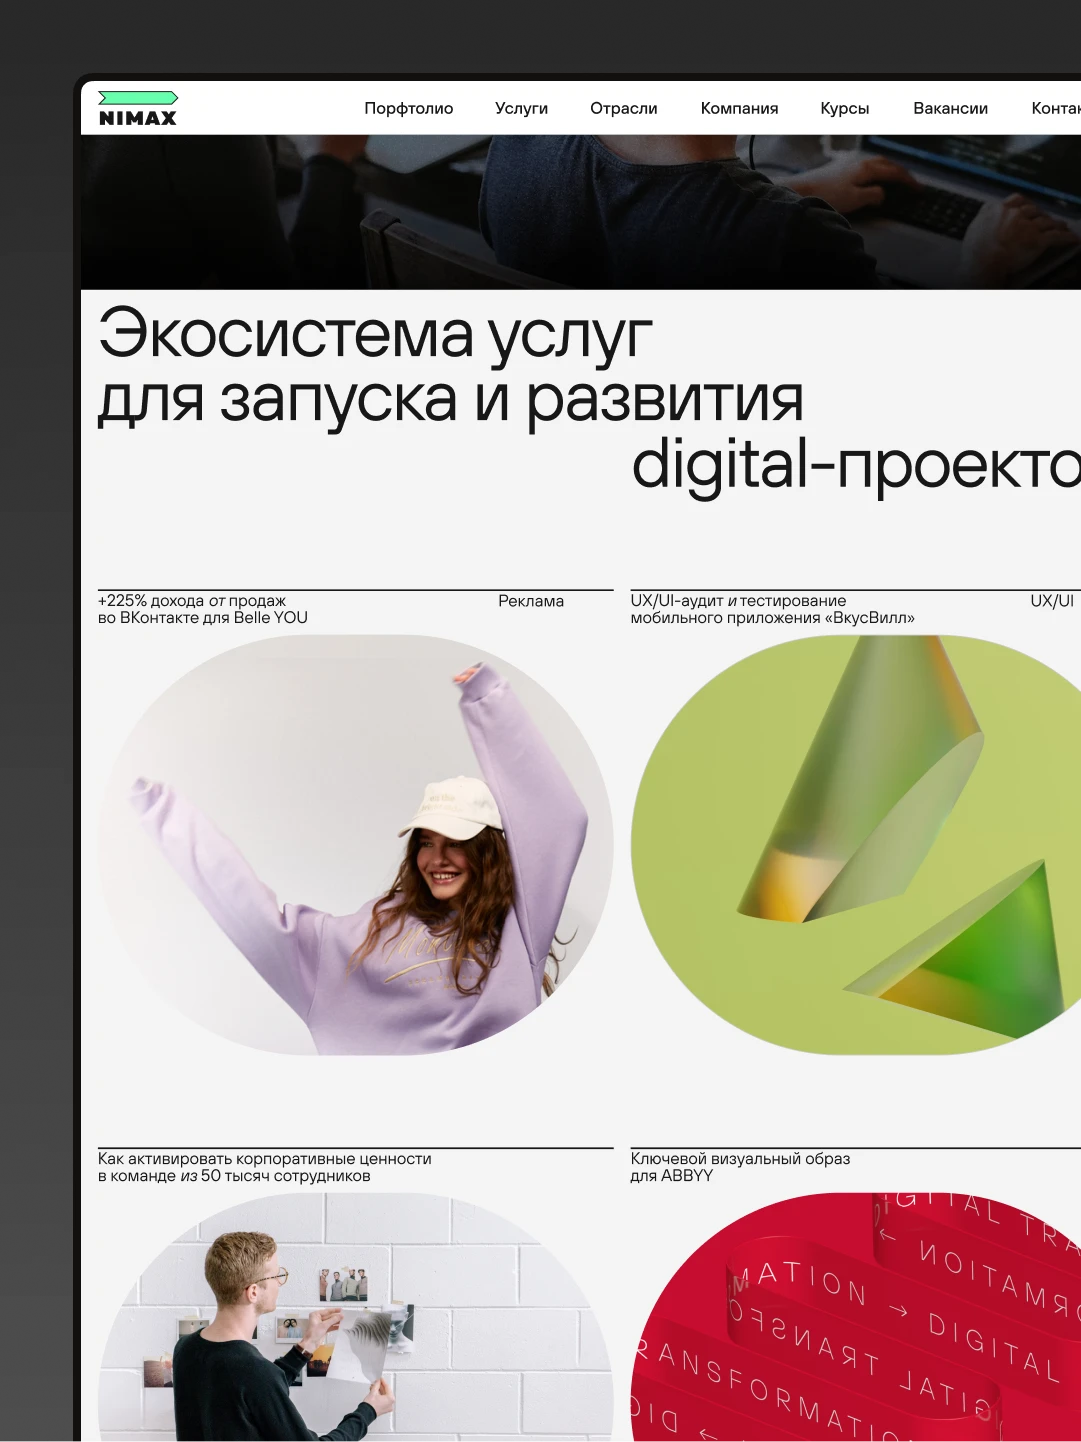
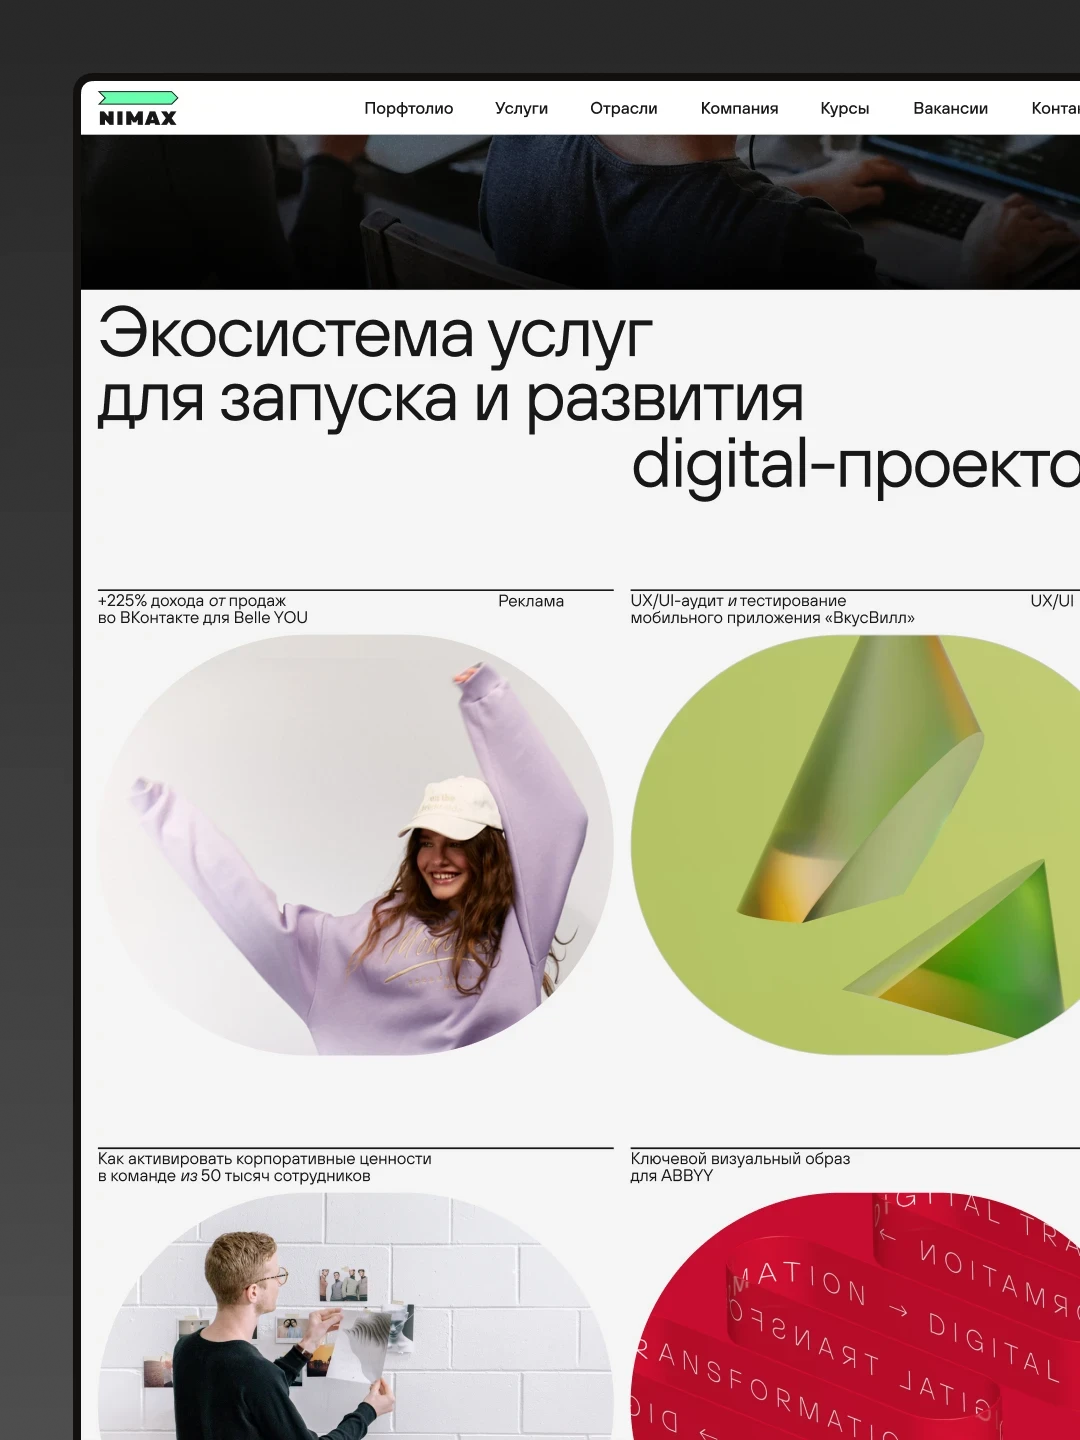
Clean up Nimax page: remove parallax/lens, fix image size, tidy code
Removes the experimental parallax and cursor-lens-distortion effects
entirely. Crops nimax-12.webp from 1081x1442 to the standard 1080x1440
and updates its HTML dimensions. Fixes two stale comments left over
from earlier iterations and merges a duplicate .pv-cover rule.

diff --git a/brands/nimax/index.html b/brands/nimax/index.html
@@ -55,8 +55,6 @@
         overflow: hidden;
         background: #d3d3d3;
         margin: 0;
-      }
-      .pv-cover {
         position: relative;
       }
       .pv-cover img,
@@ -248,8 +246,8 @@
         margin: 0;
       }
 
-      /* Info-note: tap/click button + sliding caption bar for the two
-         banner clips the Nimax team made themselves. Replaces the old
+      /* Info-note: tap/click button + sliding caption bar for photos/clips
+         that need a short attribution or note. Replaces the old
          cursor-follow hover tooltip—that was invisible on touch devices,
          so mobile visitors never saw the caption at all. Built by
          info-note.js from the host's data-note attribute; only the look
@@ -390,34 +388,6 @@
          has no effect on the mobile flat list (no side-by-side pairs
          there). */
 
-      /* ── TEMPORARY: cursor lens-distortion test on the logo ──
-         .brand already exists in styles.css (width/margin/etc.)—this
-         just adds position:relative on top, needed to place the warped
-         duplicate. The duplicate sits pixel-for-pixel on top of the
-         real logo, run through the SVG filter defined near the end of
-         the page, and is only visible through a small circular mask
-         that tracks the cursor (see the script there for the lerp that
-         makes it trail smoothly instead of snapping). */
-      .brand {
-        position: relative;
-      }
-      /* styles.css fades the whole logo to 0.7 opacity on hover (site-
-         wide link convention)—here that fights the lens effect, which
-         wants the logo staying fully solid while you look at the
-         distortion, so cancel it just on this page. */
-      .brand:hover {
-        opacity: 1;
-      }
-      .brand-mark--lens {
-        position: absolute;
-        top: 0;
-        left: 0;
-        filter: url(#nimax-lens);
-        -webkit-mask-image: radial-gradient(circle 26px at var(--lens-x, -999px) var(--lens-y, -999px), #000 55%, transparent 100%);
-        mask-image: radial-gradient(circle 26px at var(--lens-x, -999px) var(--lens-y, -999px), #000 55%, transparent 100%);
-        pointer-events: none;
-      }
-
       :root {
         --reveal-distance: 70px;
         --reveal-duration: 1400ms;
@@ -473,31 +443,11 @@
   </head>
   <body class="project-page">
 
-    <!-- TEMPORARY: SVG filter for the logo lens-distortion test (see
-         .brand-mark--lens above and the script near </body>). Turbulence
-         + displacement gives a "warped glass" ripple rather than a true
-         optical magnifier—simpler than a real lens shader, and plenty
-         convincing for a small hover bubble. Scale is deliberately mild
-         since the logo itself is only 16px tall. -->
-    <svg width="0" height="0" style="position: absolute" aria-hidden="true">
-      <filter id="nimax-lens">
-        <feTurbulence type="fractalNoise" baseFrequency="0.02 0.05" numOctaves="2" seed="7" result="noise" />
-        <feDisplacementMap in="SourceGraphic" in2="noise" scale="16" xChannelSelector="R" yChannelSelector="G" />
-      </filter>
-    </svg>
-
     <!-- ── DESKTOP LAYOUT ─────────────────────────── -->
     <main class="site-shell page-grid">
       <aside class="site-nav" aria-label="Main navigation">
-        <!-- TEMPORARY: cursor lens-distortion test (see the SVG filter,
-             CSS, and script near the end of the page). The second img is
-             a warped duplicate, visible only through a small circular
-             mask that follows the cursor—so hovering the wordmark shows
-             a little bubble of glass-like distortion sliding across it,
-             while the rest stays crisp. -->
         <a class="brand" href="../../index.html" aria-label="Andrey Ubeyvolk home">
           <img width="129" height="16" class="brand-mark" src="../../assets/logo.svg" alt="Andrey Ubeyvolk" />
-          <img width="129" height="16" class="brand-mark brand-mark--lens" src="../../assets/logo.svg" alt="" aria-hidden="true" />
         </a>
         <nav class="nav-list">
           <a href="../../inhouse/index.html">Inhouse</a>
@@ -576,10 +526,10 @@
             <div class="pv-pair">
               <div class="pv-pair__photo info-note" data-note="Made by Nimax, following the new style guide">
                 <!-- nimax-11: plays once scrolled into view, muted (silent clip), no player chrome -->
-                <video class="vp-bare" playsinline muted loop preload="metadata" src="../../assets/brands/nimax/nimax-11.mp4"></video>
+                <video class="vp-bare" playsinline muted loop preload="none" src="../../assets/brands/nimax/nimax-11.mp4"></video>
               </div>
               <figure class="pv-pair__photo">
-                <img width="1081" height="1442" loading="lazy" src="../../assets/brands/nimax/nimax-12.webp" alt="Nimax visual 12" />
+                <img width="1080" height="1440" loading="lazy" src="../../assets/brands/nimax/nimax-12.webp" alt="Nimax visual 12" />
               </figure>
             </div>
 
@@ -606,7 +556,7 @@
               </figure>
               <div class="pv-pair__photo info-note" data-note="Made by Nimax, following the new style guide">
                 <!-- nimax-18: plays once scrolled into view, muted (silent clip), no player chrome -->
-                <video class="vp-bare" playsinline muted loop preload="metadata" src="../../assets/brands/nimax/nimax-18.mp4"></video>
+                <video class="vp-bare" playsinline muted loop preload="none" src="../../assets/brands/nimax/nimax-18.mp4"></video>
               </div>
             </div>
 
@@ -625,7 +575,7 @@
 
             <!-- nimax-22: plays once scrolled into view, muted (silent clip), no player chrome -->
             <div class="info-note" data-note="Custom merch concept for the team">
-              <video class="vp-bare" width="1808" height="1080" playsinline muted loop preload="metadata" src="../../assets/brands/nimax/nimax-22.mp4"></video>
+              <video class="vp-bare" width="1808" height="1080" playsinline muted loop preload="none" src="../../assets/brands/nimax/nimax-22.mp4"></video>
             </div>
 
             <div class="pv-pair">
@@ -733,10 +683,10 @@
       </figure>
       <!-- nimax-11: plays once scrolled into view, muted (silent clip), no player chrome -->
       <div class="info-note" data-note="Made by Nimax, following the new style guide">
-        <video class="vp-bare" playsinline muted loop preload="metadata" src="../../assets/brands/nimax/nimax-11.mp4"></video>
+        <video class="vp-bare" playsinline muted loop preload="none" src="../../assets/brands/nimax/nimax-11.mp4"></video>
       </div>
       <figure class="mobile-project__photo" style="background:#d3d3d3;">
-        <img width="1081" height="1442" loading="lazy" src="../../assets/brands/nimax/nimax-12.webp" alt="Nimax visual 12" />
+        <img width="1080" height="1440" loading="lazy" src="../../assets/brands/nimax/nimax-12.webp" alt="Nimax visual 12" />
       </figure>
       <figure class="mobile-project__photo" style="background:#d3d3d3;">
         <img width="2160" height="1440" loading="lazy" src="../../assets/brands/nimax/nimax-13.webp" alt="Nimax visual 13" />
@@ -755,7 +705,7 @@
       </figure>
       <!-- nimax-18: plays once scrolled into view, muted (silent clip), no player chrome -->
       <div class="info-note" data-note="Made by Nimax, following the new style guide">
-        <video class="vp-bare" playsinline muted loop preload="metadata" src="../../assets/brands/nimax/nimax-18.mp4"></video>
+        <video class="vp-bare" playsinline muted loop preload="none" src="../../assets/brands/nimax/nimax-18.mp4"></video>
       </div>
       <figure class="mobile-project__photo" style="background:#d3d3d3;">
         <img width="2160" height="1440" loading="lazy" src="../../assets/brands/nimax/nimax-19.webp" alt="Nimax visual 19" />
@@ -768,7 +718,7 @@
       </figure>
       <!-- nimax-22: plays once scrolled into view, muted (silent clip), no player chrome -->
       <div class="info-note" data-note="Custom merch concept for the team">
-        <video class="vp-bare" width="1808" height="1080" playsinline muted loop preload="metadata" src="../../assets/brands/nimax/nimax-22.mp4"></video>
+        <video class="vp-bare" width="1808" height="1080" playsinline muted loop preload="none" src="../../assets/brands/nimax/nimax-22.mp4"></video>
       </div>
       <figure class="mobile-project__photo" style="background:#d3d3d3;">
         <img width="1080" height="1440" loading="lazy" src="../../assets/brands/nimax/nimax-23.webp" alt="Nimax visual 23" />
@@ -852,38 +802,35 @@
     <script src="../../video-player.js"></script>
     <script src="../../info-note.js"></script>
 
-    <!-- ── TEMPORARY: cursor lens-distortion on the logo. Tracks the
-         mouse over .brand, lerping the mask's center toward the cursor
-         each frame (instead of snapping straight to it) so it trails
-         smoothly—more "liquid glass," less "cursor tooltip." Resets to
-         off-element on mouseleave so the mask fully closes. -->
+    <!-- ── TEMPORARY: predictive preload for autoplay-on-scroll videos.
+         These three (nimax-11/18/22) carry preload="none" in the HTML
+         so nothing fetches at page load—video-player.js's own .vp-bare
+         observer (threshold 0.5, no rootMargin) still owns the actual
+         play() call, unchanged. This is a second, separate observer
+         with a big rootMargin that fires about a screen-height early
+         and switches preload to "auto" + calls load(), so the browser
+         has a running start buffering by the time playback actually
+         begins—avoiding both "load nothing until scrolled into view"
+         (decode starts cold, jank) and "load everything on page load"
+         (wastes bandwidth on videos never reached). Safe either way:
+         if this fires late for some reason, play() itself still starts
+         loading on demand—same as today, never worse. -->
     <script>
       (function () {
-        var brand = document.querySelector('.brand');
-        var lens = brand ? brand.querySelector('.brand-mark--lens') : null;
-        if (!brand || !lens) return;
+        var videos = Array.from(document.querySelectorAll('.vp-bare[preload="none"]'));
+        if (!videos.length || !('IntersectionObserver' in window)) return;
 
-        var targetX = -999, targetY = -999;
-        var curX = -999, curY = -999;
+        var observer = new IntersectionObserver(function (entries) {
+          entries.forEach(function (entry) {
+            if (!entry.isIntersecting) return;
+            var video = entry.target;
+            video.preload = 'auto';
+            video.load();
+            observer.unobserve(video);
+          });
+        }, { rootMargin: '0px 0px 100% 0px' });
 
-        brand.addEventListener('mousemove', function (e) {
-          var rect = brand.getBoundingClientRect();
-          targetX = e.clientX - rect.left;
-          targetY = e.clientY - rect.top;
-        });
-        brand.addEventListener('mouseleave', function () {
-          targetX = -999;
-          targetY = -999;
-        });
-
-        function tick() {
-          curX += (targetX - curX) * 0.2;
-          curY += (targetY - curY) * 0.2;
-          brand.style.setProperty('--lens-x', curX.toFixed(1) + 'px');
-          brand.style.setProperty('--lens-y', curY.toFixed(1) + 'px');
-          requestAnimationFrame(tick);
-        }
-        requestAnimationFrame(tick);
+        videos.forEach(function (video) { observer.observe(video); });
       })();
     </script>
 
@@ -900,7 +847,7 @@
          container (see the CSS above). Once revealed, an item stays
          revealed (observer
          unwatches it). Desktop and mobile get separate observers since
-         they use different trigger-offset percentages. -->
+         they watch different element sets. -->
     <script>
       (function () {
         // .pv-actions (Download/Next) is deliberately NOT its own entry
@@ -949,61 +896,6 @@
           threshold: 0
         });
         mobileItems.forEach(function (el) { mobileObserver.observe(el); });
-      })();
-    </script>
-
-    <!-- ── Parallax: subtle, continuous shift of each photo/video within
-         its own cropped frame as it travels through the viewport—unlike
-         the reveal above, this isn't a one-shot trigger, it keeps
-         running for as long as the item is on screen. The media element
-         is scaled up so the shift never exposes empty space at an edge.
-         Works with either scroll source on this site: the desktop
-         custom-scrollbar pane (.project-scroll, scrolled via its own
-         scrollTop by scroll.js) and the mobile flat list (plain
-         document/window scroll)—so it listens on both. -->
-    <script>
-      (function () {
-        // Parallax off everywhere for now (desktop and mobile)—so the
-        // hosts list is empty. Re-enabling later is a one-line change
-        // (put the selector(s) back here).
-        var hosts = [];
-        var items = [];
-        hosts.forEach(function (host) {
-          var media = host.querySelector('img, video');
-          if (media) items.push({ host: host, media: media });
-        });
-
-        var enabled = true;
-        var shift = 20;
-        var scale = 112;
-
-        function update() {
-          if (!enabled) return;
-          var vh = window.innerHeight;
-          items.forEach(function (item) {
-            var rect = item.host.getBoundingClientRect();
-            if (rect.bottom < 0 || rect.top > vh) return;
-            var center = rect.top + rect.height / 2;
-            var progress = (center - vh / 2) / (vh / 2);
-            if (progress > 1) progress = 1;
-            if (progress < -1) progress = -1;
-            var y = (progress * shift).toFixed(2);
-            item.media.style.transform = 'scale(' + (scale / 100) + ') translateY(' + y + 'px)';
-          });
-        }
-
-        var ticking = false;
-        function onScroll() {
-          if (ticking) return;
-          ticking = true;
-          requestAnimationFrame(function () { update(); ticking = false; });
-        }
-
-        var scrollEl = document.querySelector('.project-scroll');
-        if (scrollEl) scrollEl.addEventListener('scroll', onScroll, { passive: true });
-        window.addEventListener('scroll', onScroll, { passive: true });
-        window.addEventListener('resize', onScroll, { passive: true });
-        update();
       })();
     </script>
   </body>
